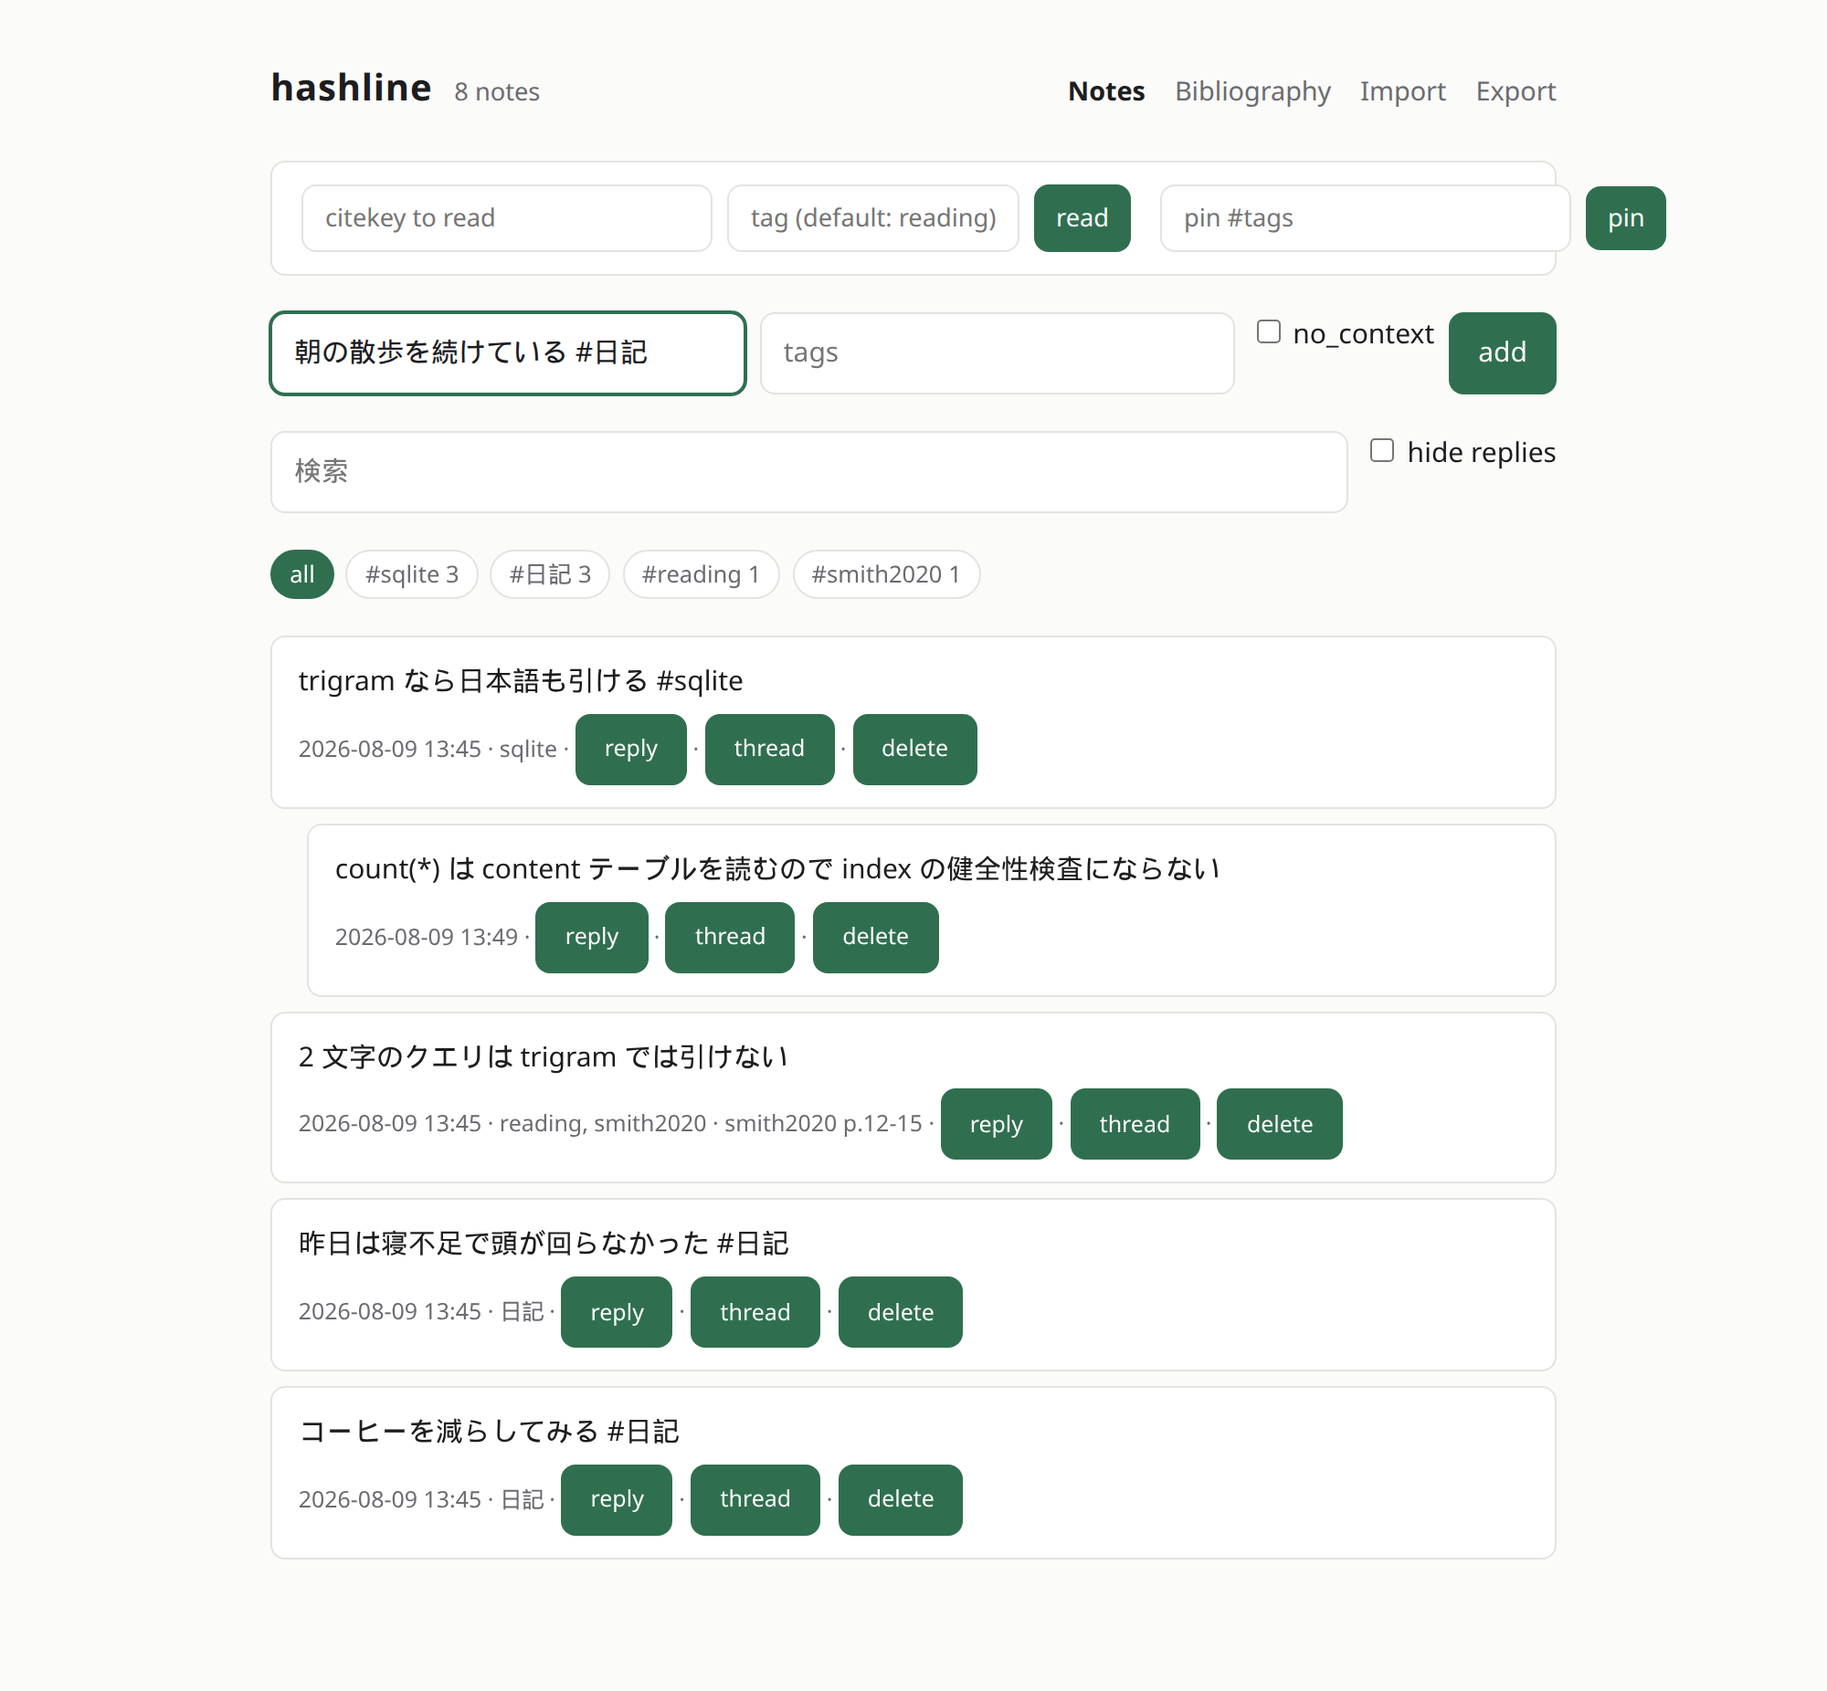
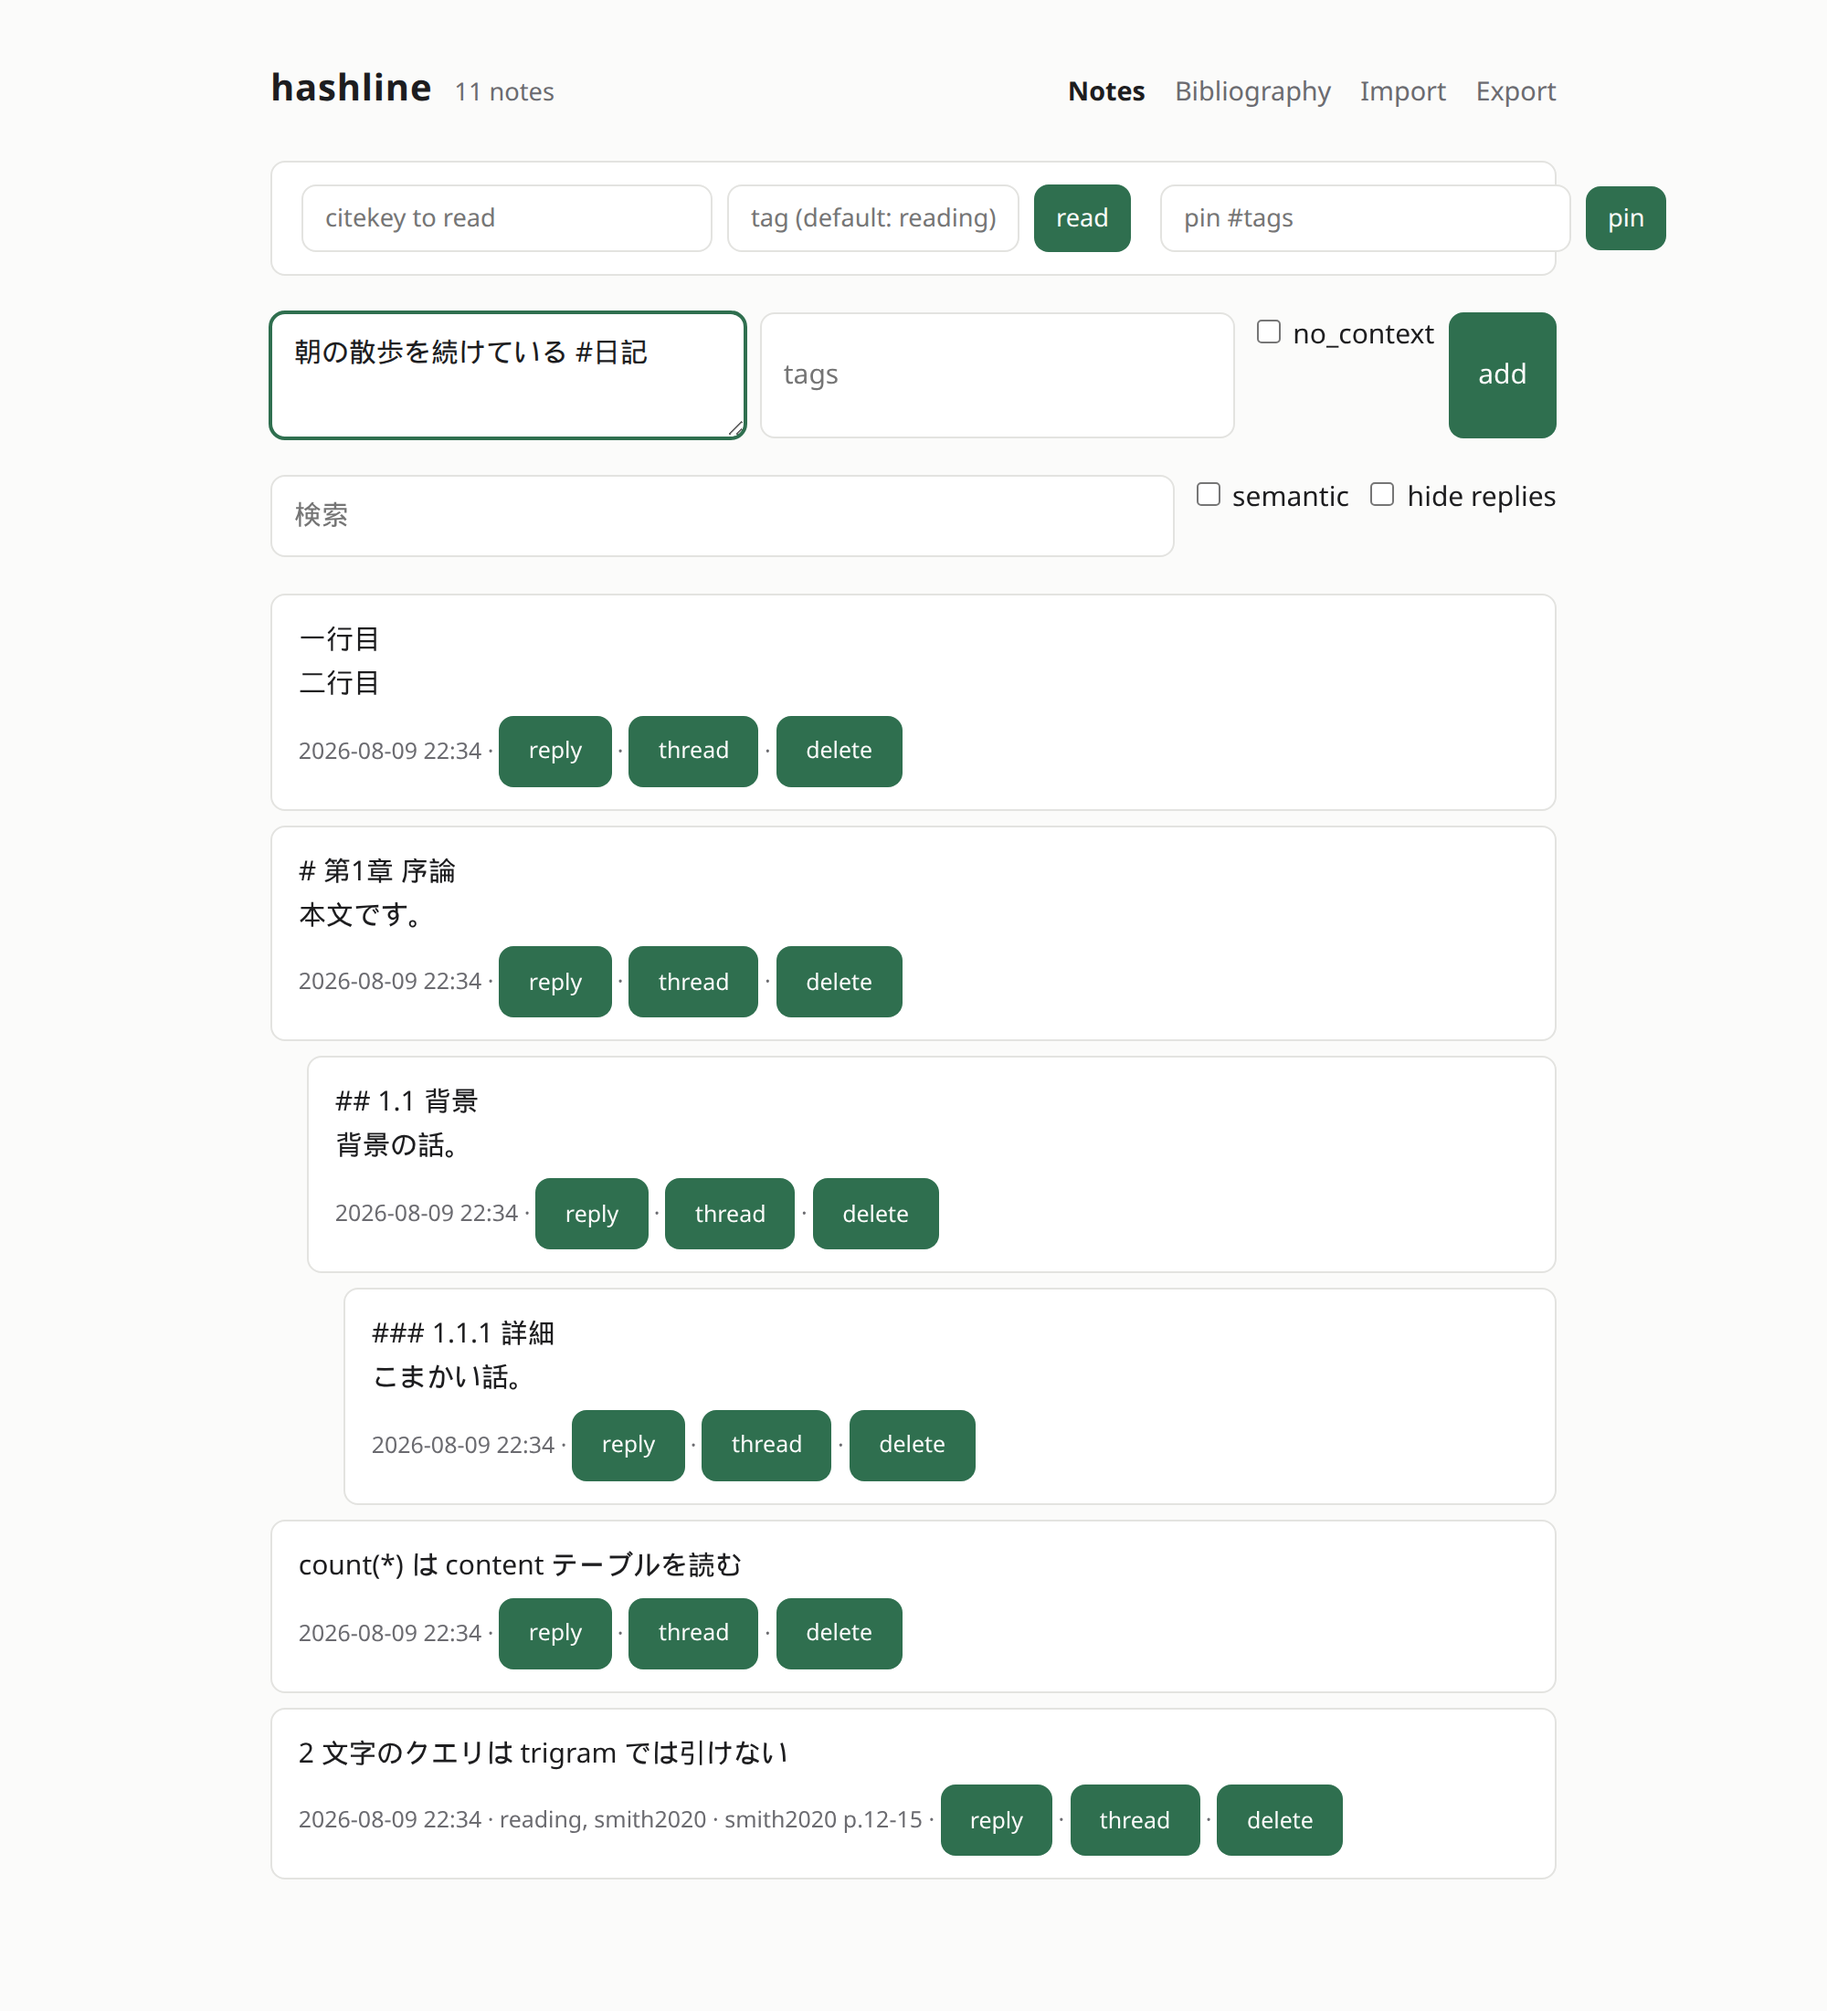
docs: record this round's web changes
The screenshot still showed the tag chips, which are gone, and none of
the round's other changes: the multi-line composer, the semantic toggle,
and a Markdown document imported as a nested thread. Retaken against a
running server.

The parity table no longer says semantic search is CLI-only, and the
import section describes what each mode does with the hierarchy rather
than naming the modes.

diff --git a/README.md b/README.md
@@ -175,8 +175,8 @@ Things worth knowing:
 - The whole query is treated as literal text. `#`, `-`, `*` and `"` are
   searched for, not interpreted as operators.
 - `--semantic` blends in a ranking by meaning; see
-  [Semantic search](#semantic-search). It needs the `ml` extra and a
-  `hashline index` pass, and says so when either is missing.
+  [Semantic search](#semantic-search). It needs the `ml` extra and an index
+  pass, and says which is missing rather than answering with nothing.
 
 ## Web UI
 
@@ -185,11 +185,12 @@ uv run uvicorn hashline.web.app:app --reload
 # http://127.0.0.1:8000
 ```
 
-![The hashline web UI: the pinned-context strip, the composer, tag chips, and
-a timeline with a reply nested under its parent](docs/web-ui.png)
+![The hashline web UI: the pinned-context strip, a multi-line composer, the
+semantic toggle, and a Markdown document imported as a nested
+chapter/section/subsection thread](docs/web-ui.png)
 
-Capture, tag filtering and search-as-you-type over the same database the CLI
-uses; it honours `$HASHLINE_DB`. HTMX is vendored under
+Capture, filtering and search-as-you-type over the same database the CLI uses;
+it honours `$HASHLINE_DB`. HTMX is vendored under
 `src/hashline/web/static/`, so the page needs no CDN and works offline. The
 vendored build is htmx 2.0.4 (`htmx.min.js`, ~50 KB), licensed 0BSD, which
 carries no attribution requirement — update the file by hand when a new
@@ -214,7 +215,8 @@ The Web UI implements equivalent functionality to the CLI commands:
 | `hashline import` | `POST /import` (also supports browser uploads) |
 | `hashline bib import` | `POST /bib/import` (also supports browser uploads) |
 | `hashline export` | `GET /export`, `GET /export/download` |
-| `hashline index`, `search --semantic` | *CLI only* |
+| `hashline index` | runs by itself when the server starts |
+| `hashline search --semantic` | the **semantic** toggle beside the search box |
 
 One deliberate difference: `hashline read start` replaces the pinned tags, while `POST /context/read` adds the reading tag to them. The context strip shows the pinned tags and the pinned work side by side with a clear button each, so starting a read there should not empty the column next to it.
 
@@ -239,6 +241,12 @@ uv run hashline search 眠れない --semantic
 Neither note contains 眠れない, so `hashline search 眠れない` on its own finds
 nothing — which is the last pair of commands in the session at the top of this
 file.
+
+In the web UI it is the **semantic** checkbox beside the search box, and there
+is nothing to run first: the server embeds whatever is unembedded in a
+background thread as it starts, so the page is usable immediately and results
+improve as the pass finishes. Set `HASHLINE_NO_INDEX=1` to skip that. Without
+the extra installed the toggle says so instead of returning nothing.
 
 `hashline index` walks `notes_without_embedding`, so re-running it costs
 nothing; `--rebuild` re-embeds everything and `--limit` stops early. A search
@@ -272,7 +280,10 @@ symmetric task.
 - `ml/search.py` is pure numpy and imports no model runtime.
 - `ml/embed.py` imports the backend inside functions.
 - `ml/protocols.py` defines the `Embedder` protocol both sides share.
-- The CLI imports both only inside the two commands that need them; `--semantic` is still CLI-only, not in the web UI.
+- `ml/hybrid.py` reads vectors out of a store and fuses the two rankings. Both
+  adapters call it, so neither owns a copy of the retrieval logic.
+- Both adapters import all of it inside the functions that need it, so nothing
+  pays for numpy at startup.
 
 ## Upgrading
 
